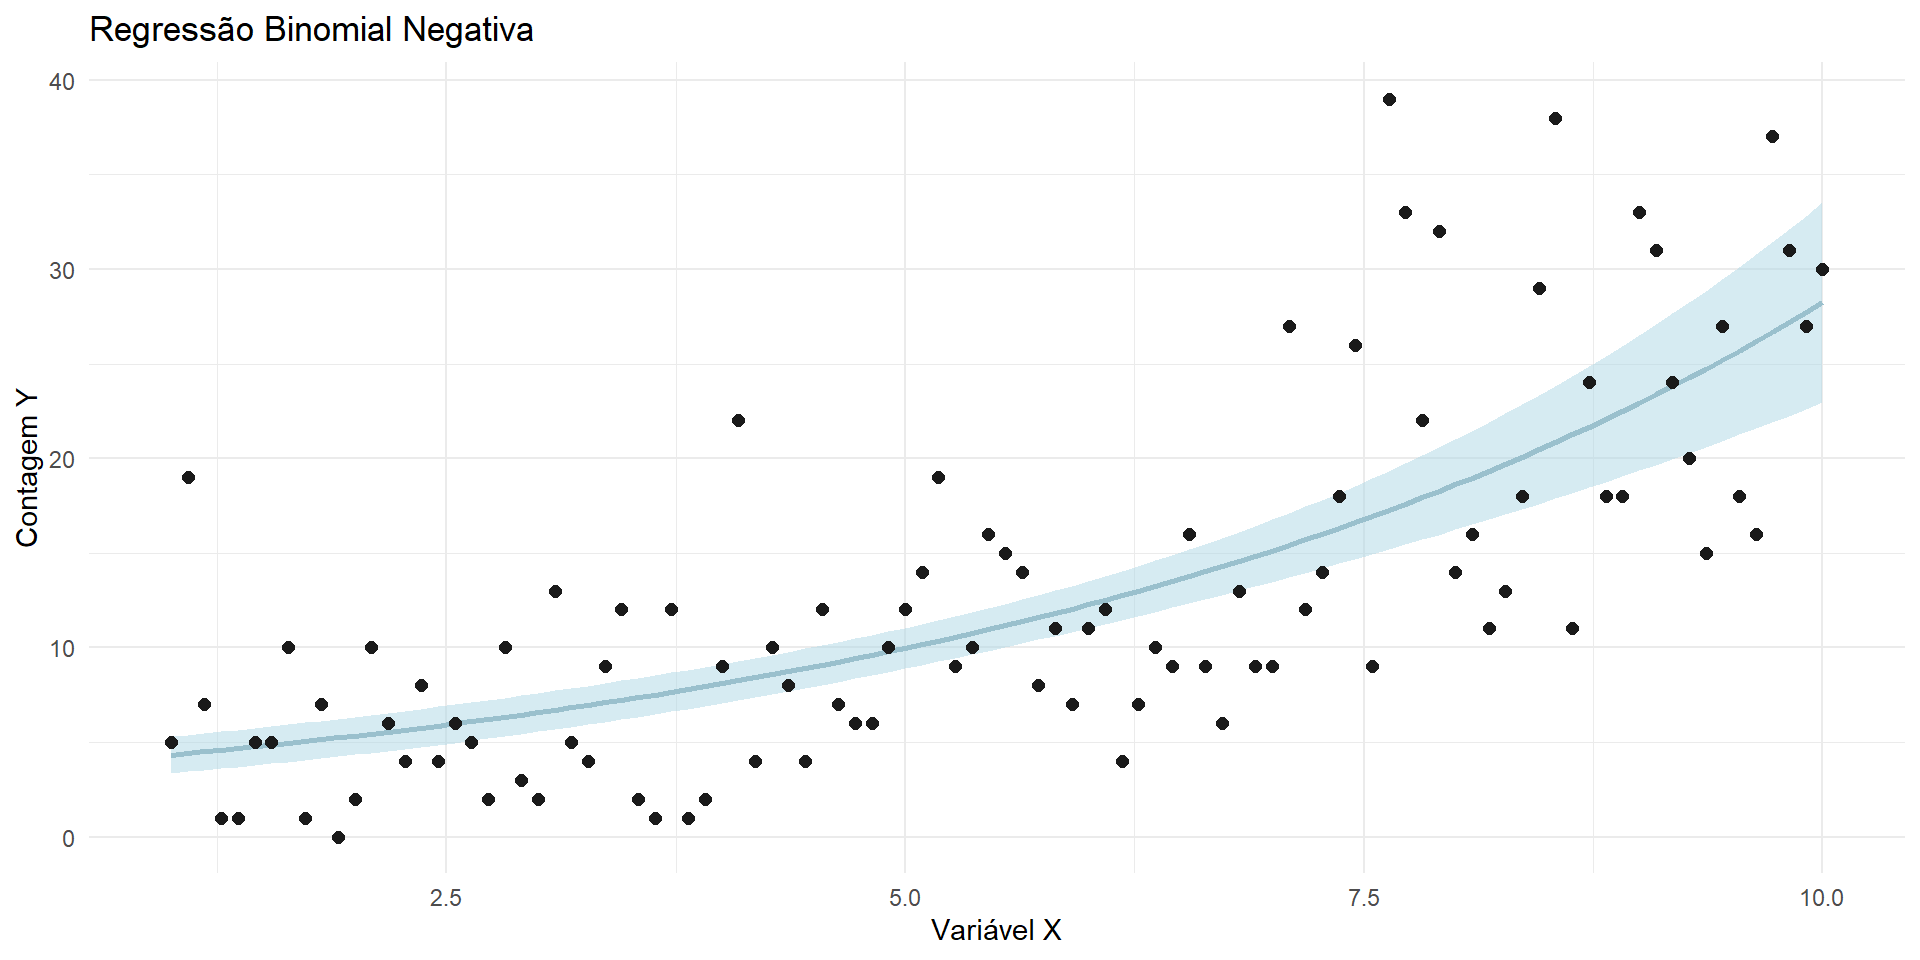
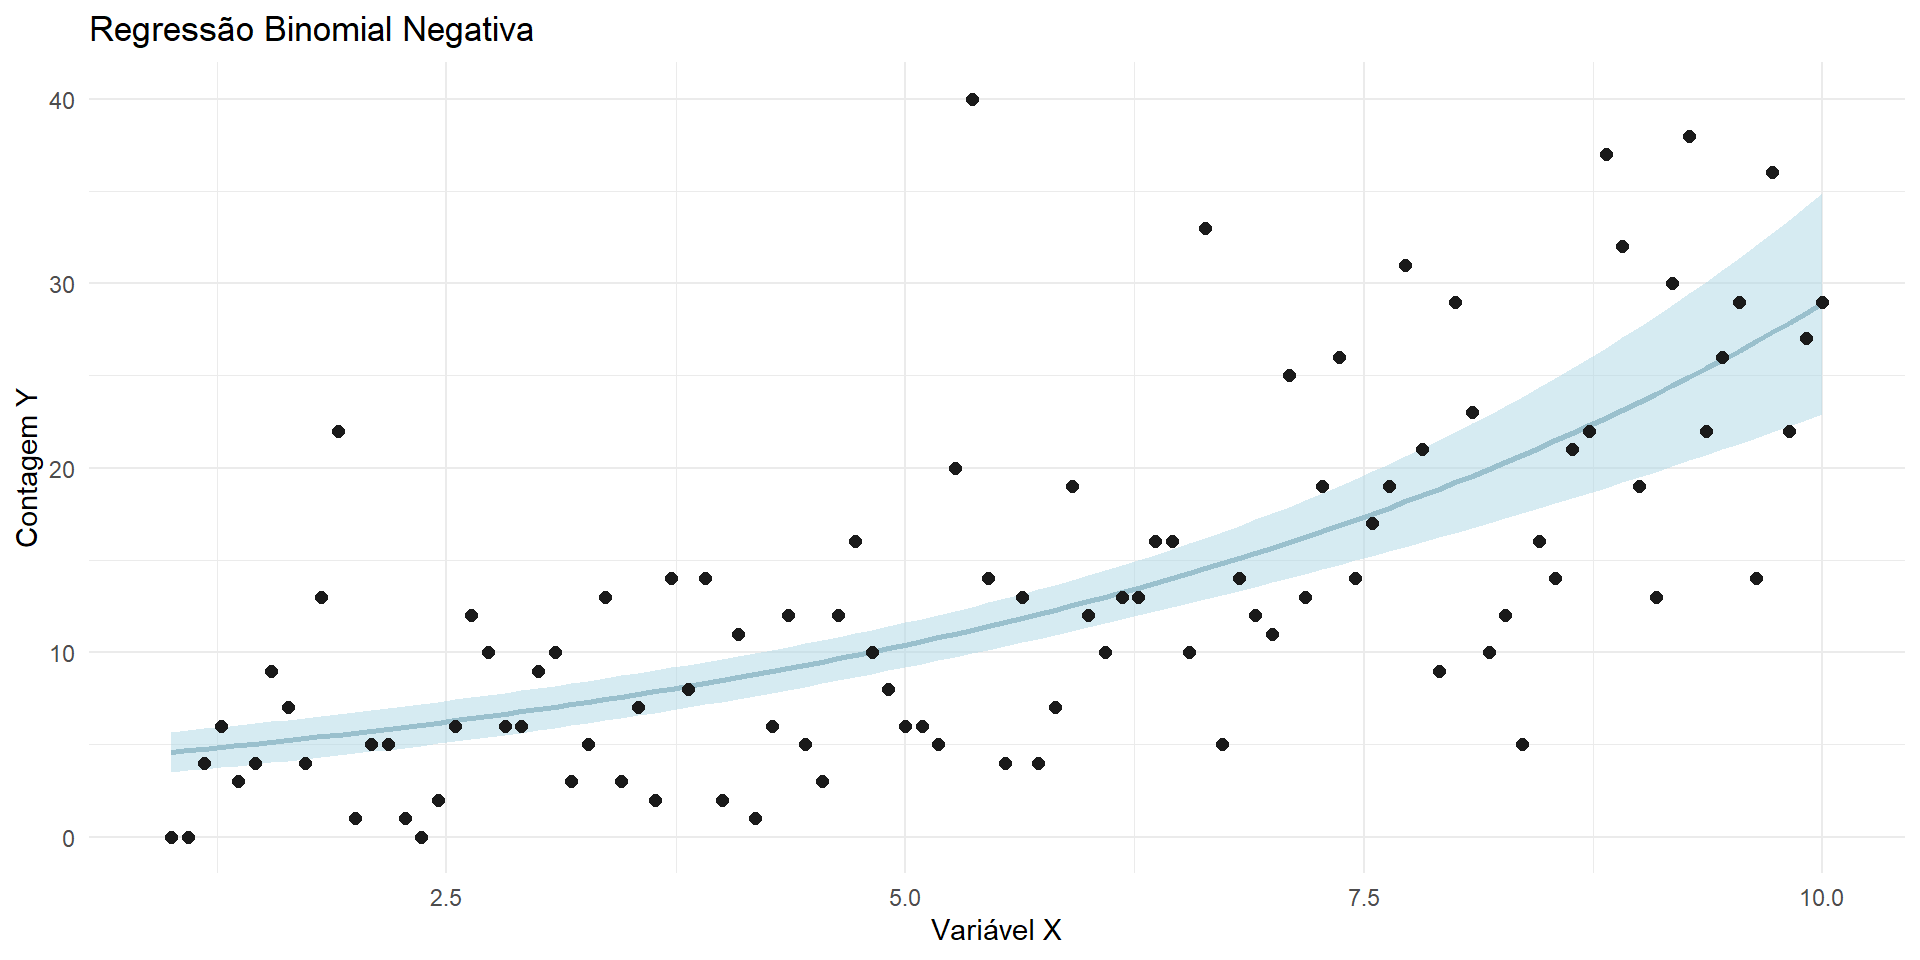
att

diff --git a/index.html b/index.html
@@ -11,7 +11,7 @@
   <meta name="generator" content="quarto-1.3.353">
 
   <meta name="author" content="Thalis Rebouças e Robert Oliveira">
-  <meta name="dcterms.date" content="2023-06-20">
+  <meta name="dcterms.date" content="2023-07-19">
   <title>Regressão Poisson e Binomial Negativa inflâcionada de ZEROS!!!</title>
   <meta name="apple-mobile-web-app-capable" content="yes">
   <meta name="apple-mobile-web-app-status-bar-style" content="black-translucent">
@@ -336,7 +336,7 @@ Thalis Rebouças e Robert Oliveira
 </div>
 </div>
 
-  <p class="date">2023-06-20</p>
+  <p class="date">2023-07-19</p>
 </section>
 <section class="slide level2">
 <h2>Sumário de aprendizagem</h2>
@@ -419,10 +419,20 @@ f(y_i|x_i) = \dfrac{e^{-\mu_i}(\mu_i)^{y_i}}{y_i!} , I_{y(0,1,2,...,\infty)}
 </section>
 <section class="slide level2">
 <h2>Propriedades</h2>
+<p><br>
+</p>
 <ul>
-<li><p><span class="math inline">\(f(y_{i}|\boldsymbol{x_{i}})=\frac{e^{-\exp(\boldsymbol{x'_i\beta})}{\exp({\boldsymbol{x'_i\beta}})}^{y_i}}{y_i!}\)</span></p></li>
-<li><p><span class="math inline">\(E\left [ y_{i}|\boldsymbol{x_{i}} \right ]= \mu_{i}=\exp\left ( \boldsymbol{x'_{i}\beta} \right )\)</span></p></li>
-<li><p><span class="math inline">\(Var\left [ y_{i}|\mathbf{x_{i}} \right ]= \mu_{i}=\exp\left ( \boldsymbol{x'_{i}\beta} \right )\)</span></p></li>
+<li><span class="math inline">\(f(y_{i}|\boldsymbol{x_{i}})=\frac{e^{-\exp(\boldsymbol{x'_i\beta})}{\exp({\boldsymbol{x'_i\beta}})}^{y_i}}{y_i!}\)</span></li>
+</ul>
+<p><br>
+</p>
+<ul>
+<li><span class="math inline">\(E\left [ y_{i}|\boldsymbol{x_{i}} \right ]= \mu_{i}=\exp\left ( \boldsymbol{x'_{i}\beta} \right )\)</span></li>
+</ul>
+<p><br>
+</p>
+<ul>
+<li><span class="math inline">\(Var\left [ y_{i}|\mathbf{x_{i}} \right ]= \mu_{i}=\exp\left ( \boldsymbol{x'_{i}\beta} \right )\)</span></li>
 </ul>
 </section>
 <section class="slide level2">
@@ -509,20 +519,30 @@ g\left ( \theta;\alpha,\beta \right )=\frac{\beta^{\alpha}}{\Gamma\left ( \alpha
 <li><p>Para valores fixados de <span class="math inline">\(\alpha\)</span>, a distribuição binomial negativa fica expressa na forma da família exponencial linear, contemplada pela teoria de MLG.</p></li>
 <li><p>A estimação dos parâmetros do modelo se dá numericamente, segundo um algoritmo em duas etapas, em que <span class="math inline">\(\alpha\)</span> e <span class="math inline">\(\boldsymbol{\beta}\)</span> são estimados condicionalmente até convergência.</p></li>
 </ul>
+</section></section>
+<section class="title-slide slide level1 center">
+<h1>Gráfico da regresão da binomial negativa</h1>
 
-<img data-src="index_files/figure-revealjs/unnamed-chunk-4-1.png" width="960" class="r-stretch"></section></section>
+<img data-src="index_files/figure-revealjs/unnamed-chunk-4-1.png" width="960" class="r-stretch"></section>
+
 <section class="title-slide slide level1 center">
 <h1>Estimativas</h1>
 <p>As estimativas para <span class="math inline">\(\beta\)</span> e <span class="math inline">\(\phi\)</span> podem ser obtidas pelo algoritmo de mínimos quadrados ponderados:</p>
 <p><span class="math display">\[
 \beta^{(m+1)} = (X^T W^{(m)}X)^{-1}X^TW^{(m)}y^{*(m)} \\
 \phi^{(m+1)}=\phi^{(m)}-\left( \dfrac{U_\phi^{(m)}}{L_\phi^{(m)}} \right)
-\]</span> Para m = 1,2,…, em que :</p>
+\]</span></p>
+</section>
+
+<section class="title-slide slide level1 center">
+<h1>Estimativas</h1>
+<p>Para m = 1,2,…, em que :</p>
 <p><span class="math display">\[
 y^{*} = X\beta+F^{-1}(y-\mu) \\
 L_{\phi} = \sum_{i=1}^n\left(\psi'(\phi+y_i)+\dfrac{y_i-2\mu_i-\phi}{(\phi-\mu_i)^2}\right) + n\phi^{-1}(1-\phi\psi'(\phi))
 \]</span></p>
-<p>Onde o algoritmo de estimação para <span class="math inline">\(\beta\)</span> e <span class="math inline">\(\phi\)</span> são simultâneos, onde $w_i = () &nbsp;e &nbsp;f_i= $</p>
+<p>Onde o algoritmo de estimação para <span class="math inline">\(\beta\)</span> e <span class="math inline">\(\phi\)</span> são simultâneos, onde :</p>
+<p><span class="math inline">\(w_i = \dfrac{1}{(\mu_i+\mu_i^2\phi^{-1})}(\dfrac{d\mu_i}{dn_i})\)</span> e <span class="math inline">\(f_i=\dfrac{d \mu_i}{dn_i}\)</span></p>
 </section>
 
 <section>
